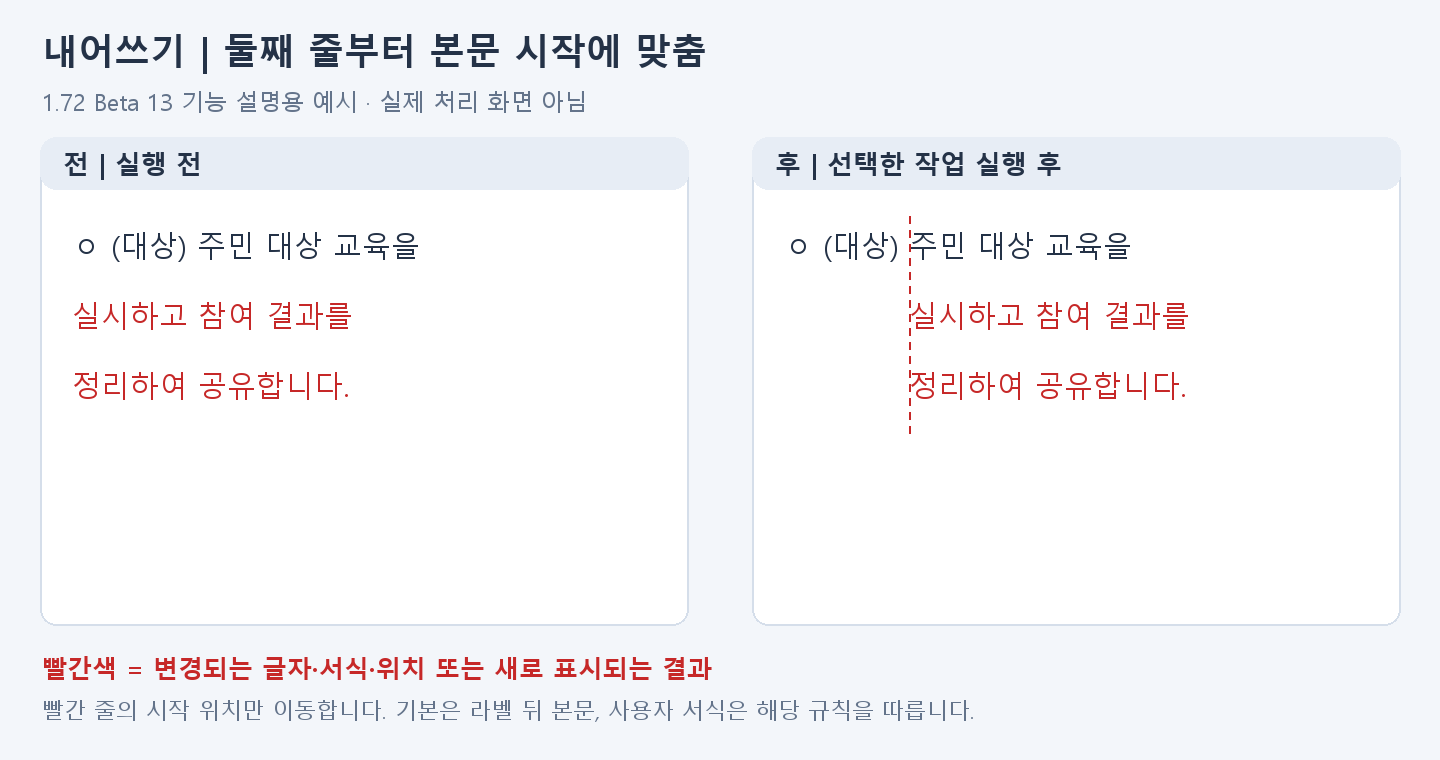
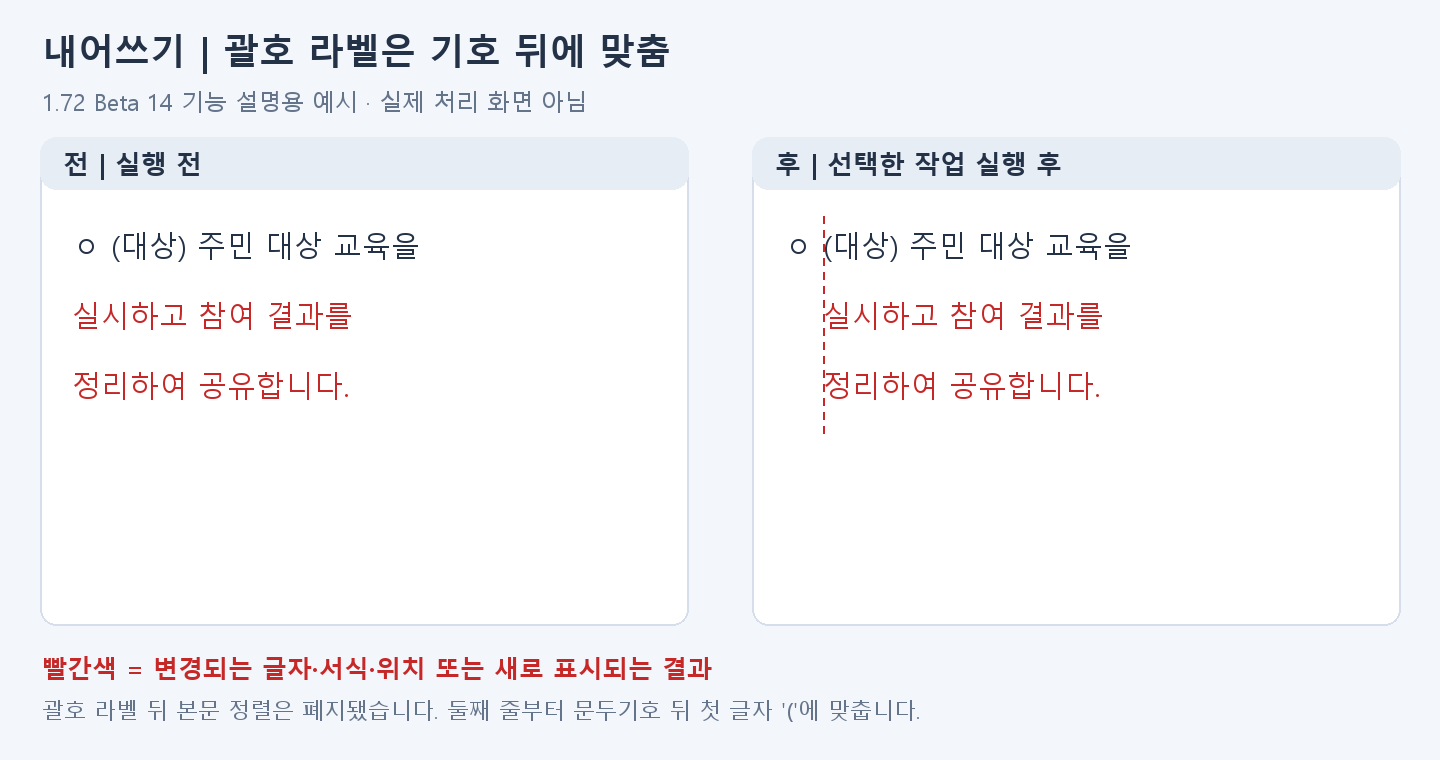
docs: reflect Beta 14 hanging indent rules with comparison images

diff --git a/scripts/build_readme_comparisons.py b/scripts/build_readme_comparisons.py
@@ -51,11 +51,16 @@ CARDS = [
          [line('ㅇ 안내 자료를 배포'), line('{합니다.}', 25), line('마지막 줄: 4글자', size=25)],
          [line('ㅇ 안내 자료를 배포{합니다.}'), line('마지막 줄이 앞줄에 합쳐짐', size=25)],
          '예시는 기준을 4글자 이하로 설정한 경우입니다. 실행 기준은 설정에서 바꿉니다.'),
-    card('hanging-indent', '내어쓰기 | 둘째 줄부터 본문 시작에 맞춤',
+    card('hanging-indent', '내어쓰기 | 괄호 라벨은 기호 뒤에 맞춤',
          [line('ㅇ (대상) 주민 대상 교육을'), line('{실시하고 참여 결과를}'), line('{정리하여 공유합니다.}')],
-         [line('ㅇ (대상) 주민 대상 교육을'), line('{실시하고 참여 결과를}', 135),
-          line('{정리하여 공유합니다.}', 135)],
-         '빨간 줄의 시작 위치만 이동합니다. 기본은 라벨 뒤 본문, 사용자 서식은 해당 규칙을 따릅니다.'),
+         [line('ㅇ (대상) 주민 대상 교육을'), line('{실시하고 참여 결과를}'),
+          line('{정리하여 공유합니다.}')],
+         "괄호 라벨 뒤 본문 정렬은 폐지됐습니다. 둘째 줄부터 문두기호 뒤 첫 글자 '('에 맞춥니다."),
+    card('hanging-indent-colon', '내어쓰기 | 콜론 뒤 본문 정렬은 유지',
+         [line('ㅇ 대상: 주민 대상 교육을'), line('{실시하고 참여 결과를}'), line('{정리하여 공유합니다.}')],
+         [line('ㅇ 대상: 주민 대상 교육을'), line('{실시하고 참여 결과를}'),
+          line('{정리하여 공유합니다.}')],
+         "콜론 라벨은 기존대로 콜론 뒤 본문에 맞춥니다. '(방식) :'처럼 콜론이 있는 라벨도 같습니다."),
     card('page-fit', '쪽 수 맞춤 | 마지막 쪽에 조금 남은 글을 당김',
          [], [], '문단 간격 등을 조정해 당길 수 있는 경우의 예시입니다. 모든 문서를 한 쪽 줄이지는 않습니다.', 'page-fit'),
     card('page-group', '관련 문단 쪽 배치 | 제목과 내용을 함께',
@@ -220,7 +225,8 @@ def render(c):
     im = Image.new('RGB', (1440, 760), '#f3f6fa')
     d = ImageDraw.Draw(im)
     d.text((42, 25), c['title'], font=font(36, True), fill=INK)
-    d.text((42, 85), '1.72 Beta 13 기능 설명용 예시 · 실제 처리 화면 아님', font=font(23), fill=GRAY)
+    version = '1.72 Beta 14' if c['name'].startswith('hanging-indent') else '1.72 Beta 13'
+    d.text((42, 85), version + ' 기능 설명용 예시 · 실제 처리 화면 아님', font=font(23), fill=GRAY)
     for after, px, label in [(False, 40, '전 | 실행 전'), (True, 752, '후 | 선택한 작업 실행 후')]:
         d.rounded_rectangle((px, 137, px + 648, 625), radius=16, fill='white', outline='#d5deea', width=2)
         d.rounded_rectangle((px, 137, px + 648, 189), radius=16, fill='#e7edf5')
@@ -252,13 +258,14 @@ def render(c):
                 rich(d, px + 32, 225 + i * 70, entry['text'], entry['size'])
         else:
             for i, entry in enumerate(entries):
-                offset = d.textlength('ㅇ (대상) ', font=font(29)) if c['name'] == 'hanging-indent' and after and i > 0 else entry['x']
+                prefix = 'ㅇ 대상: ' if c['name'] == 'hanging-indent-colon' else 'ㅇ '
+                offset = d.textlength(prefix, font=font(29)) if c['name'].startswith('hanging-indent') and after and i > 0 else entry['x']
                 end = rich(d, px + 32 + offset, 225 + i * 70, entry['text'], entry['size'], entry['bold'])
                 if end > px + 620:
                     raise ValueError(f"패널 밖 텍스트: {c['name']}: {entry['text']}")
-            if c['name'] == 'hanging-indent' and after:
-                # 첫 줄 본문 시작과 이어지는 줄 시작을 함께 표시.
-                guide = px + 32 + d.textlength('ㅇ (대상) ', font=font(29))
+            if c['name'].startswith('hanging-indent') and after:
+                # 괄호는 기호 뒤, 콜론은 라벨 뒤 본문 시작을 표시.
+                guide = px + 32 + d.textlength(prefix, font=font(29))
                 for y in range(216, 430, 14):
                     d.line((guide, y, guide, y + 7), fill=RED, width=2)
         if c['name'] in ('all-in-one', 'abbreviation') and after:

diff --git a/docs/media/features/README.md b/docs/media/features/README.md
@@ -1,9 +1,11 @@
 # README 기능 비교 이미지
 
-안내 기준: **1.72 Beta 13**. PNG 30개 중 `spacing.png`와 `all-in-one.png`는
+안내 기준: **1.72 Beta 14**. PNG 31개 중 `spacing.png`와 `all-in-one.png`는
 사용자가 지정한 `111\test4`의 「보고서 예시 파일(한번에 적용).txt」 사본을
 실제 앱으로 처리하고 한/글 자체 PDF 출력으로 렌더링한 사례입니다.
-나머지 28개는 기능 설명용 도해입니다. 사용자가 좋다고 한 내어쓰기 이미지는 유지했습니다.
+나머지 29개는 기능 설명용 도해입니다. 내어쓰기 도해 두 개는 Beta 14 규칙을 반영하여
+괄호 라벨은 기호 뒤 `(`에, 콜론 라벨은 콜론 뒤 본문에 정렬되는 모습을 각각 보여줍니다.
+실제 사례 두 개는 기존 Beta 13 실행 자료를 유지했습니다.
 제품의 동작은 `hwp-auto-docfit.py`, `docfit_core/stage_selection.py`,
 `docfit_core/writing_aids.py`와 Beta 13 릴리스 노트를 기준으로 확인했습니다.
 실제 사례는 삼체 문명을 소재로 한 가상 보고서입니다. 원본 TXT·HWPX·로그는
